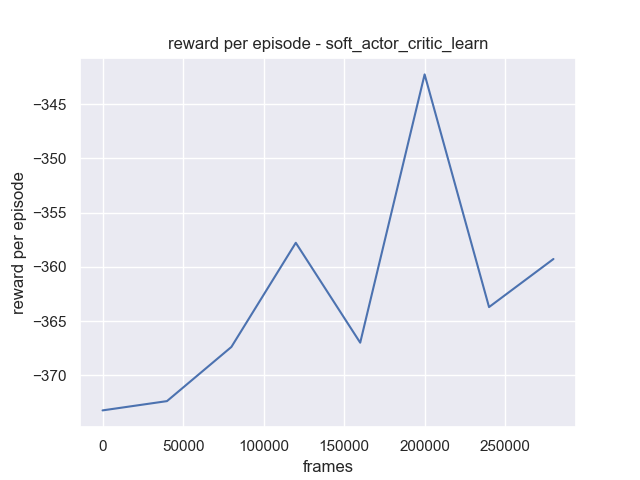
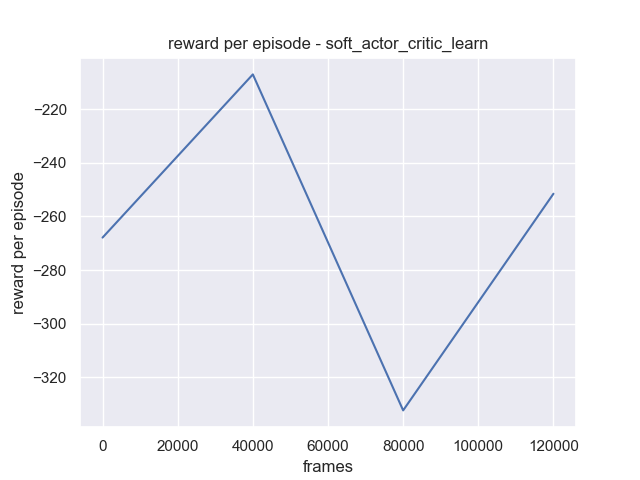
123

diff --git a/agents.py b/agents.py
@@ -283,15 +283,32 @@ class Soft_actorcritic_critic(Agent):
         loss.backward()
         self.optimizer.step()
         self.optimizer.zero_grad()
-    
-
-
         
-class Soft_actorcritic_Actor(Actor_Agent):
-    def __init__(self, env, gamma, update_target_every_frames, **args):
-        super().__init__(env, **args)
+class Soft_actorcritic_Actor(Agent):
+    def __init__(self, env, gamma, update_target_every_frames, entropy_regulization, **args):
+        continuous = args.get("continuous", False)
+        super().__init__(env, Networks.Normal_distribution_variable_std, **args)
+        self.entropy_regulization = entropy_regulization
+        self.continuous = continuous
         self.gamma = gamma
         self.update_target_every_frames = update_target_every_frames
+
+    def take_action(self, state, output_log_prob=False):
+        if not isinstance(state, torch.Tensor):
+            state = torch.tensor(state)
+        output = self.forward(state)
+        mean, log_std = output[:, :self.action_space], output[:, self.action_space:]
+        std = torch.exp(log_std)
+        non_squeezed_action = self.exploration.explore(mean, std)
+        action = torch.tanh(non_squeezed_action)
+        if output_log_prob:
+            return action, self.log_policy(mean, std, non_squeezed_action)
+        else:
+            return action.tolist()
+
+    def log_policy(self, mean, std, non_squeezed_action):
+        standardized_actions = (non_squeezed_action - mean) / std
+        return MultivariateNormal(torch.zeros(mean.shape), torch.eye(self.action_space)).log_prob(standardized_actions) - torch.sum(torch.log(1 - torch.tanh(non_squeezed_action)**2), dim=1)
 
     def train(self, buffer: replay_buffer, agent_critic1: Soft_actorcritic_critic, agent_critic2: Soft_actorcritic_critic):
         if buffer.counter < self.train_after_frames:
@@ -302,18 +319,18 @@ class Soft_actorcritic_Actor(Actor_Agent):
         for _ in range(self.trains_every_frames):
             states, actions, rewards, next_states, dones = buffer.get_batch()
             next_actions, next_log_probs = self.take_action(next_states, output_log_prob=True)
-            input_for_critics_next = torch.cat([next_states, torch.tensor(next_actions)], dim=1)
+            input_for_critics_next = torch.cat([next_states, next_actions], dim=1).detach()
             vals_next1 = agent_critic1.target_network.forward(input_for_critics_next)
             vals_next2 = agent_critic2.target_network.forward(input_for_critics_next)
-            min_q_values_target = torch.min(vals_next1, vals_next2).detach().flatten()
-            target = (rewards.float() + self.gamma * (1 - dones.int()).detach() * (min_q_values_target - self.entropy_regulization * next_log_probs)).unsqueeze(1)  
+            min_q_values_target = torch.min(vals_next1, vals_next2).flatten()
+            target = (rewards.float() + self.gamma * (1 - dones.int()) * (min_q_values_target - self.entropy_regulization * next_log_probs)).unsqueeze(1).detach() 
 
             input_for_critics = torch.cat([states, actions], dim=1)
             agent_critic1.train(input_for_critics, target)
             agent_critic2.train(input_for_critics, target)
 
             actions_for_actor, log_probs_for_actor = self.take_action(states, output_log_prob=True)
-            input_for_critics = torch.cat([states, torch.tensor(actions_for_actor)], dim=1)
+            input_for_critics = torch.cat([states, actions_for_actor], dim=1)
             min_q_values = torch.min(agent_critic1.network.forward(input_for_critics), agent_critic2.network.forward(input_for_critics)).flatten()
             loss = torch.mean(self.entropy_regulization * log_probs_for_actor - min_q_values)
             loss.backward()

diff --git a/main.py b/main.py
@@ -11,15 +11,15 @@ class parameters:
     # (choose between epsilon greedy, greedy, multinomial (eg. If discrete REINFORCE), normal distribution (cont. REINFORCE), etc.)
 
     # training parameters
-    batch_size: int = 512
-    learning_rate: float = 5e-4 # (if multiple agents are used this learning rate is used for all of them)
+    batch_size: int = 512 # (if multiple agents are used this batch size is used for all of them)
+    learning_rate: float = 1e-4 # (if multiple agents are used this learning rate is used for all of them)
     weight_decay: float = 1e-5
     trains_every_frames: int = 1
 
     # only used with a replay buffer
-    train_after_frames: int = 20000
+    train_after_frames: int = 40000
     buffer_size: int = 200000
-    update_target_every_frames: int = 200
+    update_target_every_frames: int = 5000
 
     # only used with learning from episodes (eg. REINFORCE or actor critic)
     episodes_before_train: int = 32 # (How many episodes is played before we train on them. Higher number is faster but less efficient)
@@ -29,7 +29,7 @@ class parameters:
     gamma: float = 0.995 # (only used with td learning)
     lambda_: float = 0.8 # (only used with eligibility traces)
     sample_lengths: int = 30 # (only used with eligibility traces and only has effect when lambda_ > 0)
-    entropy_regulization: float = 0.1 # (only used with policy agents)
+    entropy_regulization: float = 100 # (only used with policy agents)
     epsilon_clip: float = 0.1 # (only used with PPO)
 
     # only used with epsilon greedy

diff --git a/networks.py b/networks.py
@@ -12,6 +12,7 @@ class Networks(Enum):
     Policy_advantage_network = 4
     Policy_advantage_network_continuous = 5
     SAC_q_network = 6
+    Normal_distribution_variable_std = 7
 
 class Multiply(nn.Module):
     def __init__(self, alpha):
@@ -49,6 +50,8 @@ class Network:
             self.network = nn.Sequential(self.base_network, nn.Linear(last_hidden_layer_size, self.action_space), nn.Softmax(dim=1))
         elif network == Networks.Normal_distribution:
             self.network = nn.Sequential(self.base_network, nn.Linear(last_hidden_layer_size, self.action_space), nn.Tanh(), Multiply(mult))
+        elif network == Networks.Normal_distribution_variable_std:
+            self.network = nn.Sequential(self.base_network, nn.Linear(last_hidden_layer_size, 2 * self.action_space))
         elif network == Networks.Policy_advantage_network:
             self.network = nn.Sequential(self.base_network, ParallelModule(nn.Sequential(nn.Linear(last_hidden_layer_size, self.action_space), nn.Softmax(dim=1)), nn.Linear(last_hidden_layer_size, 1)))
         elif network == Networks.Policy_advantage_network_continuous:   

diff --git a/exploration.py b/exploration.py
@@ -54,5 +54,9 @@ class Exploration:
     def multinomial(self, values):
         return torch.multinomial(values, 1).squeeze(1).tolist()
     
-    def normal_distribution(self, values):
-        return MultivariateNormal(values, 0.1 * torch.eye(self.action_space)).sample().tolist()
+    def normal_distribution(self, values, std=0.1):
+        if isinstance(std, float):
+            return MultivariateNormal(values, std * torch.eye(self.action_space)).sample().tolist()
+        
+        noise = MultivariateNormal(torch.zeros(values.shape), torch.eye(self.action_space)).sample()
+        return values + noise * std
